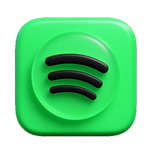
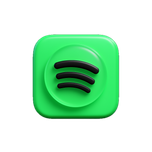
v

diff --git a/frontend/scripts/generate-icons-from-png.js b/frontend/scripts/generate-icons-from-png.js
@@ -17,50 +17,115 @@ if (!fs.existsSync(OUTPUT_DIR)) {
   fs.mkdirSync(OUTPUT_DIR, { recursive: true });
 }
 
-// Generate PNG icons in different sizes
+// Generate PNG icons in different sizes with proper padding
 async function generateIcons() {
-  console.log('Generating Spotify icons from PNG...');
+  console.log('Generating Spotify icons from PNG with proper padding...');
   
   try {
-    // Generate standard icons
+    // Generate standard icons with proper padding
     for (const size of ICON_SIZES) {
+      // Calculate padding to ensure icon fits properly in the icon area
+      const padding = Math.floor(size * 0.15); // 15% padding for better fit
+      const iconSize = size - (padding * 2);
+      
       await sharp(SOURCE_PNG)
-        .resize(size, size)
+        .resize(iconSize, iconSize)
+        .extend({
+          top: padding,
+          bottom: padding,
+          left: padding,
+          right: padding,
+          background: { r: 0, g: 0, b: 0, alpha: 0 } // Transparent background
+        })
         .png()
         .toFile(path.join(OUTPUT_DIR, `spotify-icon-${size}.png`));
       
       console.log(`Created icon: spotify-icon-${size}.png`);
     }
     
-    // Generate maskable icons (same as regular icons for now)
+    // Generate maskable icons with proper padding for PWA
     for (const size of [192, 512]) {
+      // For maskable icons, we need more padding (about 25%)
+      const padding = Math.floor(size * 0.25);
+      const iconSize = size - (padding * 2);
+      
       await sharp(SOURCE_PNG)
-        .resize(size, size)
+        .resize(iconSize, iconSize)
+        .extend({
+          top: padding,
+          bottom: padding,
+          left: padding,
+          right: padding,
+          background: { r: 0, g: 0, b: 0, alpha: 0 }
+        })
         .png()
         .toFile(path.join(OUTPUT_DIR, `spotify-icon-maskable-${size}.png`));
       
       console.log(`Created maskable icon: spotify-icon-maskable-${size}.png`);
     }
     
-    // Generate Apple touch icons
+    // Generate Apple touch icons with proper padding
     const appleSizes = [120, 152, 167, 180];
     for (const size of appleSizes) {
+      const padding = Math.floor(size * 0.15);
+      const iconSize = size - (padding * 2);
       const outputPath = path.join(__dirname, '../public/apple-touch-icon-' + size + '.png');
+      
       await sharp(SOURCE_PNG)
-        .resize(size, size)
+        .resize(iconSize, iconSize)
+        .extend({
+          top: padding,
+          bottom: padding,
+          left: padding,
+          right: padding,
+          background: { r: 0, g: 0, b: 0, alpha: 0 }
+        })
         .png()
         .toFile(outputPath);
       
       console.log(`Created Apple touch icon: apple-touch-icon-${size}.png`);
     }
     
-    // Create favicon.ico (using 32x32)
+    // Create favicon with proper padding
+    const faviconSize = 32;
+    const faviconPadding = Math.floor(faviconSize * 0.15);
+    const faviconIconSize = faviconSize - (faviconPadding * 2);
+    
     await sharp(SOURCE_PNG)
-      .resize(32, 32)
+      .resize(faviconIconSize, faviconIconSize)
+      .extend({
+        top: faviconPadding,
+        bottom: faviconPadding,
+        left: faviconPadding,
+        right: faviconPadding,
+        background: { r: 0, g: 0, b: 0, alpha: 0 }
+      })
       .png()
       .toFile(path.join(__dirname, '../public/favicon.png'));
     
     console.log('Created favicon: favicon.png');
+    
+    // Create logo variants with proper padding (using different names to avoid conflicts)
+    const logoVariants = ['green', 'black', 'white'];
+    for (const variant of logoVariants) {
+      const logoSize = 512;
+      const logoPadding = Math.floor(logoSize * 0.15);
+      const logoIconSize = logoSize - (logoPadding * 2);
+      
+      await sharp(SOURCE_PNG)
+        .resize(logoIconSize, logoIconSize)
+        .extend({
+          top: logoPadding,
+          bottom: logoPadding,
+          left: logoPadding,
+          right: logoPadding,
+          background: { r: 0, g: 0, b: 0, alpha: 0 }
+        })
+        .png()
+        .toFile(path.join(OUTPUT_DIR, `spotify-logo-${variant}-padded.png`));
+      
+      console.log(`Created logo variant: spotify-logo-${variant}-padded.png`);
+    }
     
     // Create SVG version for better scaling
     await sharp(SOURCE_PNG)
@@ -70,7 +135,7 @@ async function generateIcons() {
     
     console.log('Created SVG: spotify-logo-green.svg');
     
-    console.log('All icons generated successfully!');
+    console.log('All icons generated successfully with proper padding!');
   } catch (error) {
     console.error('Error generating icons:', error);
     process.exit(1);
